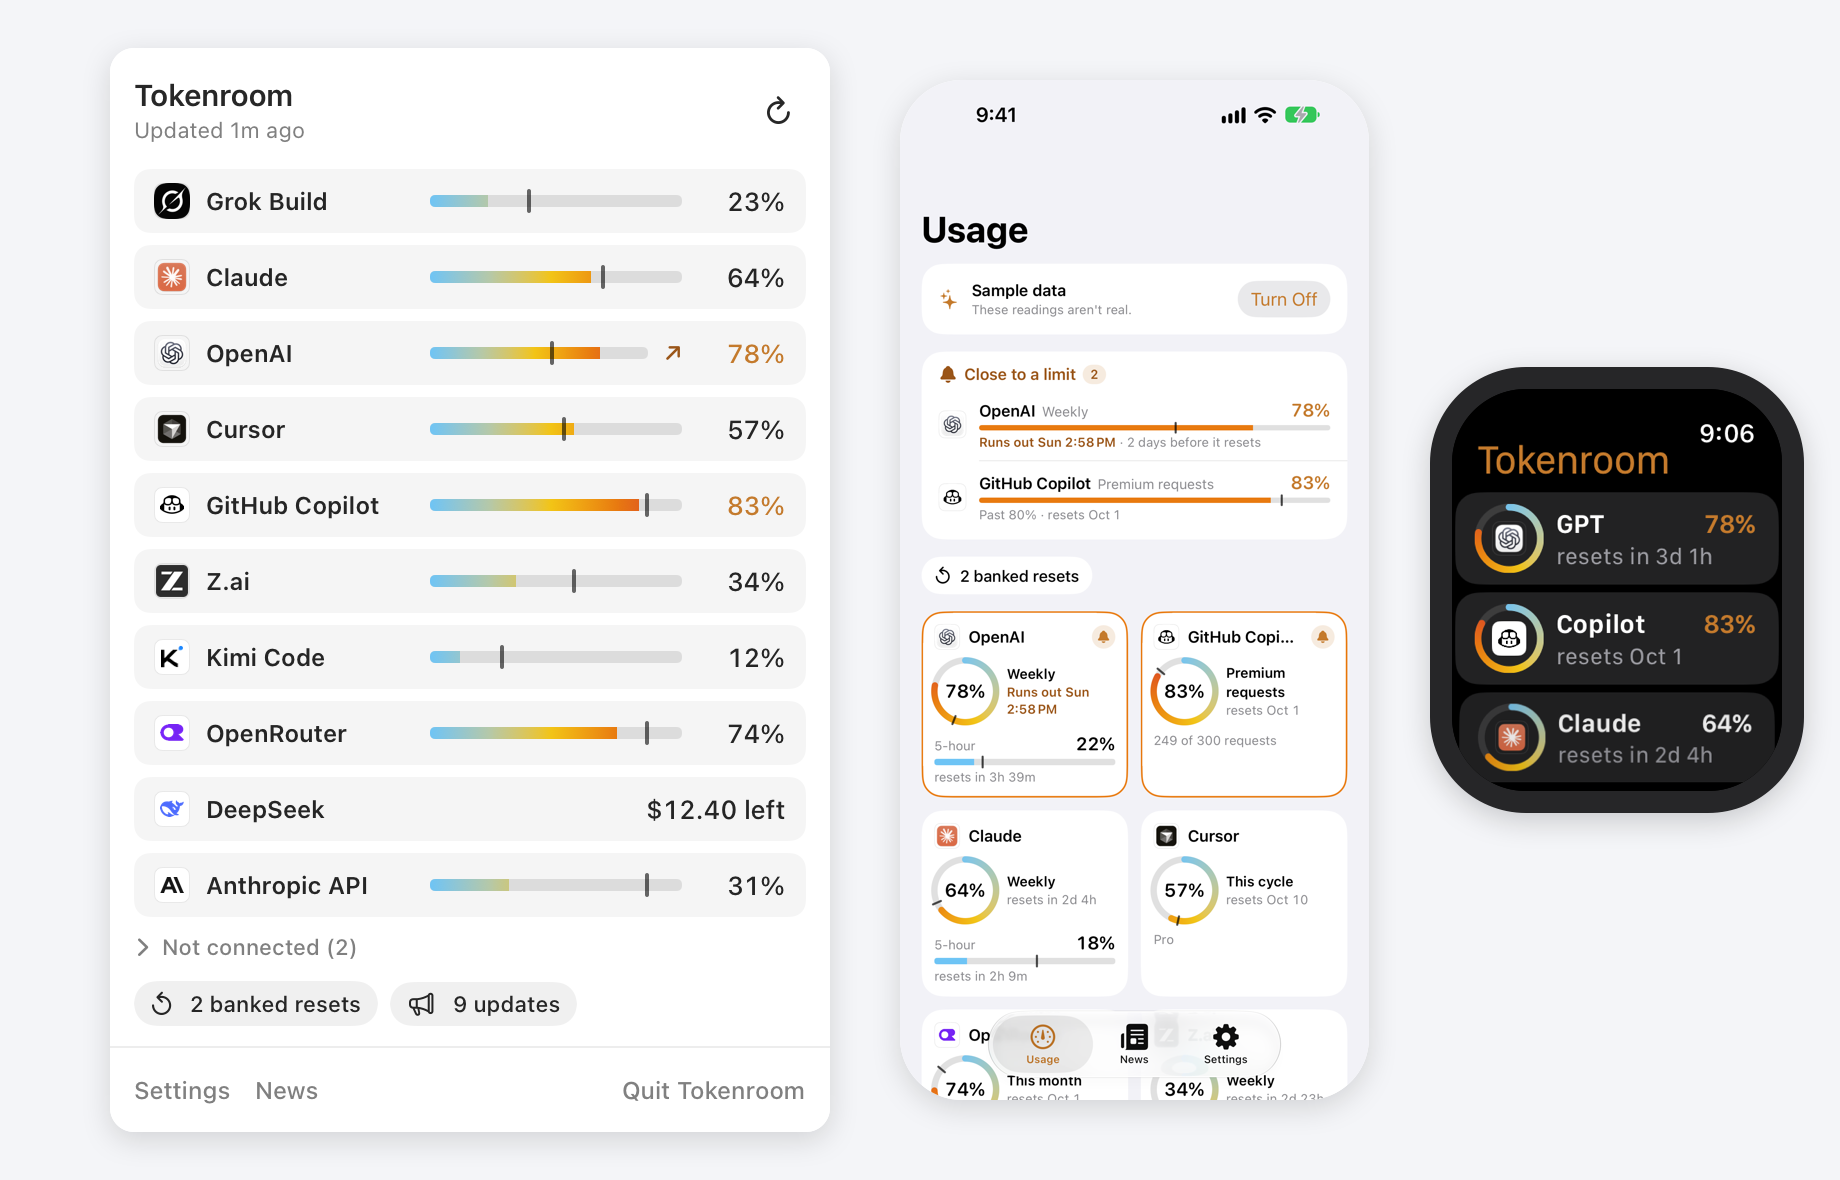
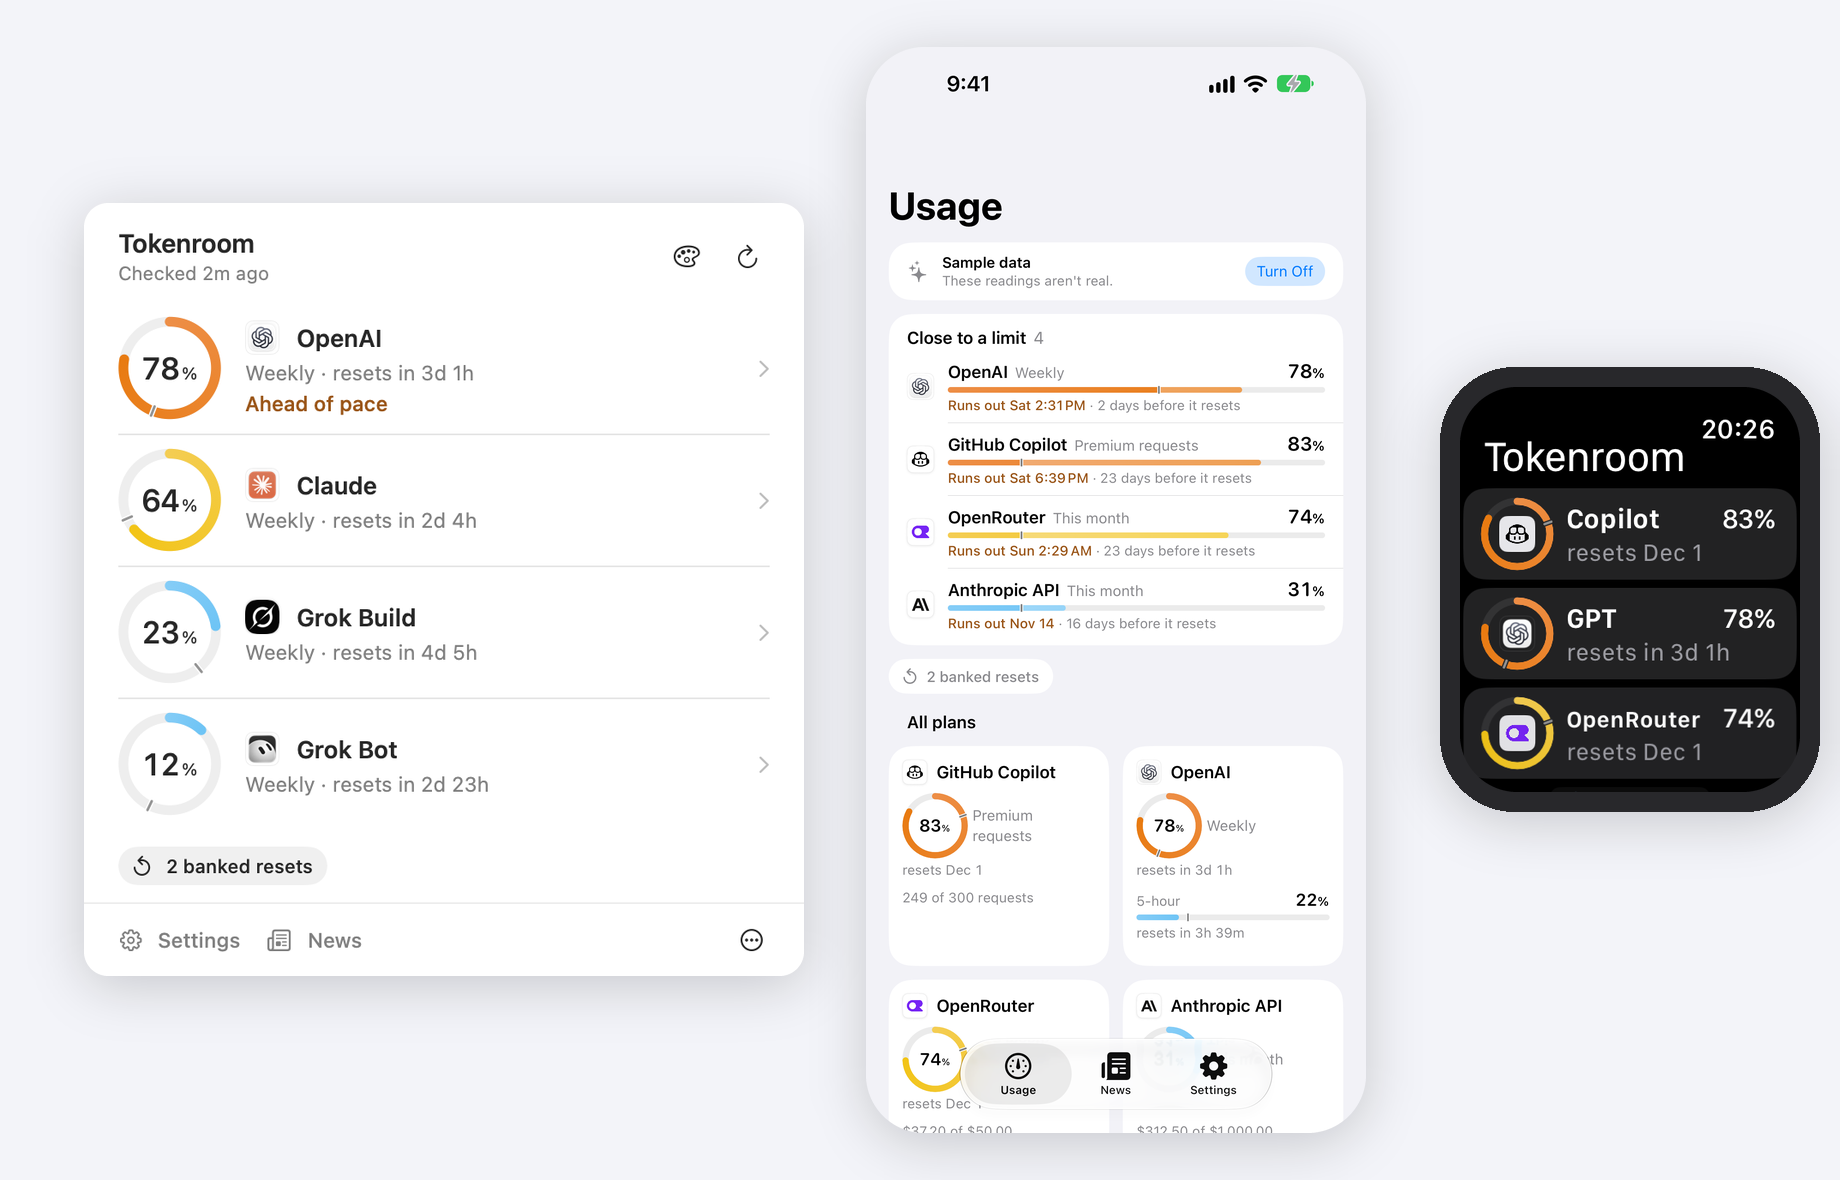
Prepare Mac 2.6.0 and iPhone and Watch 1.3.0
Version the UI overhaul, describe it in the changelog and the App Store
listing, and bring the README up to date: every image now shows the
current interface, and the text covers All plans, popover styles, the
App Store link, and the capture script.

diff --git a/README.md b/README.md
@@ -17,7 +17,7 @@
 </p>
 
 <p align="center">
-  <img src="docs/images/hero.png" width="920" alt="Tokenroom's popover on the Mac, the Usage tab on iPhone, and the Apple Watch app">
+  <img src="docs/images/hero.png" width="920" alt="Tokenroom's Orbit popover on the Mac, the Usage tab on iPhone, and the Apple Watch app">
 </p>
 
 Tokenroom is a menu-bar extra. It does not live in the Dock. It reuses logins you already have. For pay-as-you-go and organization billing you can add an API key, which stays in your Keychain. It does not keep private account names, emails, or tokens on disk. News retains public publisher and skill-owner names for attribution.
@@ -52,8 +52,8 @@ The extra shows **used %** for every provider you turned on, leading with its op
 Click the extra for the popover. **Orbit** is the default, with larger percentages and circular meters. Choose **Instrument**, **Strata**, **Aurora** or the original **Classic** presentation from the palette button or **Settings → Menu Bar**; the choice is saved on this Mac. Open a provider for remaining quota, a daily allowance until reset, seven-day history and usage versus elapsed time. Classic keeps the original cards, including compact rows when more than five providers are connected.
 
 <p align="center">
-  <img src="docs/images/popover.png" width="400" alt="Classic popover with ten providers on one line each">
-  <img src="docs/images/popover-details.png" width="400" alt="An expanded card: every window, a week of history, pace, and banked resets">
+  <img src="docs/images/popover.png" width="400" alt="The Orbit popover: a ring for each provider with its window, reset time, and pace">
+  <img src="docs/images/popover-details.png" width="400" alt="A provider's page: remaining quota, daily allowance, a week of history, and usage against time">
 </p>
 
 Click a provider for its details:
@@ -89,6 +89,7 @@ Each of those tools already knows how much quota you have left. None of them put
 - **Local-first.** No Tokenroom account, no Tokenroom server, no telemetry.
 - **Your logins.** Sessions stay where each tool keeps them. Claude, Grok Build, and Codex are renewed there; every other login is only read.
 - **Independent meters.** One provider failing never blanks the others.
+- **Colour that means something.** Percentages stay in ink until a limit is critical, charts are neutral with a dot at the current level, and controls are blue.
 - **Three looks.** Percents, vertical used-bars, or only the highest, for the providers you pick. Refresh every 5, 10, 15, or 30 minutes. Launch at login if you want.
 
 Numbers in the screenshots are sample data.
@@ -101,7 +102,7 @@ Numbers in the screenshots are sample data.
 
 Tokenroom for iPhone shows the same meters, pace, and a week of history. They come from your Mac through your own iCloud. The iPhone also reads plans itself, so it works without a Mac: sign in to Claude, Codex, Grok Build, Cursor, and Grok Bot in **Settings → Plans** (on each company's own page, where Cursor also takes a Grok or X account; Tokenroom never sees the password), and add keys for coding plans (including GitHub Copilot with a fine-grained token), pay-as-you-go balances, and organization spend. Antigravity and Devin keep their login in a tool on a Mac and need Tokenroom for Mac. A sign-in or key you add on your iPhone stays on that iPhone, a login on your Mac stays on your Mac, and only usage syncs. It adds:
 
-- a tile for every plan: its weekly (or monthly) limit as a ring and its 5-hour limit as a bar, each with the even-pace mark and when it resets or runs out
+- a tile for every plan, under **All plans**: its weekly (or monthly) limit as a ring and its 5-hour limit as a bar, each with the even-pace mark and when it resets or runs out
 - **Close to a limit**: every limit at 80% or more, or on course to run out before it resets, most urgent first, with Follow on Lock Screen
 - Home Screen and Lock Screen widgets, with countdowns that tick without draining the widget budget
 - a Live Activity that follows a session, or a nearly spent week, to its reset; start it from the app, Control Center, the Action button, or Siri ("Follow usage in Tokenroom")
@@ -110,7 +111,7 @@ Tokenroom for iPhone shows the same meters, pace, and a week of history. They co
 
 The Apple Watch app and its complications read the same iCloud records, so they keep working with the iPhone away. Refresh on the Watch also asks a reachable paired iPhone to check its own providers and share its newest readings. Provider tiles identify the collecting device and its last successful check; sync failures remain visible beside saved readings. Plans collected only on a Mac still need that Mac running to obtain new usage. The Smart Stack shows a limit as it nears its reset or passes 80%. The signed download of Tokenroom for Mac sends its readings on its own (**Settings → iPhone & Watch** turns that off). A copy you build and sign yourself can't use iCloud.
 
-Tokenroom for iPhone and Apple Watch is available on the App Store. It has a sample mode for looking around first.
+Tokenroom for iPhone and Apple Watch is [available on the App Store](https://apps.apple.com/app/id6816126110). It has a sample mode for looking around first.
 
 ## Install
 
@@ -152,7 +153,7 @@ Tokenroom caches readings (percentages, reset times, window labels, and any bala
 - **Providers**: what's connected, what Tokenroom found signed in on this Mac, and what's available, plus organization billing.
 - **API Keys**: coding-plan keys, a fine-grained token for Copilot, pay-as-you-go keys with a reference amount, and organization keys with a monthly budget.
 - **Alerts** and **News**: as above.
-- **Menu Bar**: Percents, Meters, or Highest, and which providers show.
+- **Menu Bar**: Percents, Meters, or Highest, which providers show, and the popover's style.
 - **iPhone & Watch**: sync through iCloud.
 
 Bundle ID is `app.tokenroom.mac`.
@@ -165,7 +166,7 @@ Bundle ID is `app.tokenroom.mac`.
 
 DerivedData is forced to `~/Library/Developer/Xcode/DerivedData/Tokenroom`. UI, tokens, and provider contracts: [`.grok/skills/tokenroom-macos/SKILL.md`](.grok/skills/tokenroom-macos/SKILL.md). The iPhone, widgets, and Watch: [`.grok/skills/tokenroom-apple/SKILL.md`](.grok/skills/tokenroom-apple/SKILL.md).
 
-Tests: `TokenroomTests` (on the Mac, including all the shared logic) and `TokenroomMobileTests` (in the iPhone app). The images above come from sample data: a debug build of the Mac app renders them with `-TokenroomSnapshots <folder>`.
+Tests: `TokenroomTests` (on the Mac, including all the shared logic) and `TokenroomMobileTests` (in the iPhone app). The images above come from sample data: `./scripts/ui-snapshots.sh <folder>` renders every Mac, iPhone, and Watch screen from it.
 
 CI runs Shared typechecks, Mac tests, the iPhone/Watch build and test compilation,
 and the Command Line Tools build in four parallel jobs. `Build and test` accepts

diff --git a/CHANGELOG.md b/CHANGELOG.md
@@ -1,5 +1,29 @@
 # Changelog
 
+## 2.6.0 for Mac and 1.3.0 for iPhone — not yet released
+
+Mac 2.6.0(1) and iPhone, widgets and Apple Watch 1.3.0(1) carry the UI overhaul from #58. Neither is uploaded or published yet.
+
+On every device
+
+- Colour now means something. Percentages stay in ink until a limit is critical, charts are neutral with a dot at the current level, and controls are blue.
+- Meters are flat, the pace mark is finer, and rings have a cleaner notch. Fewer boxes: facts sit in plain columns.
+
+Mac
+
+- The Orbit popover is about a third shorter with the same providers: smaller rings with a pace mark, and one caption line.
+- A provider's page puts its name in the header and its ring beside the text, so more of the page fits. An expired session is a row, not a card that pushes the others away.
+- The menu bar uses Cursor's and GitHub Copilot's own marks, at the same widths as before.
+- Settings > Providers has a flatter header and one unofficial note per section, with Sign In on the provider's own line. News has fewer cards and a neutral sidebar.
+
+iPhone, widgets and Apple Watch
+
+- Usage doesn't repeat its alarm: Close to a limit is calm, and plans sit under All plans with their full names.
+- A provider's page has one title. Welcome leads with one action, and the other ways in share a list. Long Settings notes move behind How Readings Work.
+- News drops the status card, keeps its main story to two lines, and puts actions under the title.
+- Widgets show the pace mark, and the large one uses its full height. On the Lock Screen and tinted watch faces, meters are ink, so a critical one stays bright.
+- Apple Watch shows the title in ink and leads a provider's page with its reading, then the plan.
+
 ## 2.5.3 for Mac — released 2 November 2026
 
 Mac 2.5.3(1) is [publicly released](https://github.com/felipedrf74/tokenroom/releases/tag/v2.5.3). The iPhone, widgets and Watch app code and versions are unchanged. [The delivery record](docs/release-delivery-20261102.md) binds the package to the merged source.

diff --git a/docs/app-store.md b/docs/app-store.md
@@ -2,6 +2,10 @@
 
 A draft for App Store Connect. Provider names appear only in the description, as facts, never in the name, subtitle, or keywords. Tokenroom isn't affiliated with any provider.
 
+## What's New — 1.3.0
+
+A lighter, calmer Tokenroom on iPhone, widgets and Apple Watch. Colour now means something: percentages stay in ink until a limit is critical, charts are neutral with a dot at your current level, and controls are blue. Provider pages have one title and plain facts. News has fewer boxes, with actions under each title. Welcome starts with one clear step.
+
 ## What's New — 1.2.2
 
 Submitted 31 October 2026 with build 1.2.2 (1): Waiting for Review, released automatically once approved. The promotional text and the description below went in with it, the description with its current privacy bullet; the review notes are 1.2.1's, unchanged. [The delivery record](release-delivery-20261031.md) has the details.
@@ -147,6 +151,8 @@ The Watch app reads the same iCloud records. Notifications are optional and come
 ## Screenshots
 
 6.9" iPhone (1320 × 2868), from sample data on the iPhone 18 Pro Max simulator in US English, with the status bar set to 9:41:
+
+Replace all of these with 1.3.0: they show the interface before the overhaul.
 
 1. Usage: Close to a limit and the plan tiles
 2. Detail with pace and a week of history (OpenAI)
